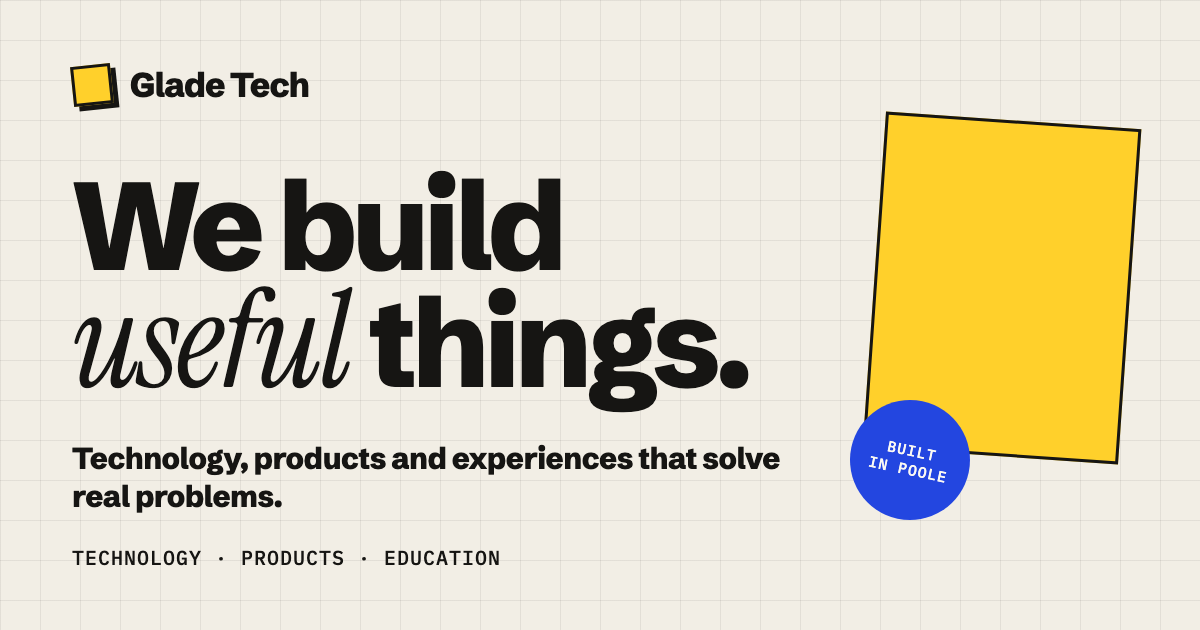
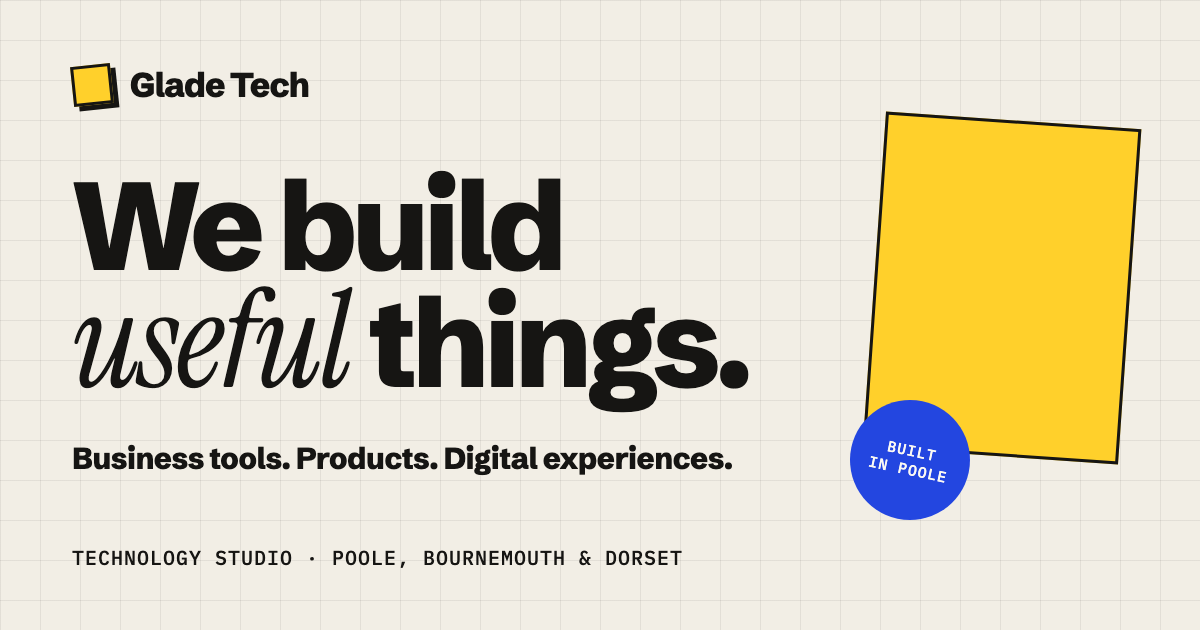
Local SEO metadata, structured data and Google Search Console verification file

Changed region(s): [[0.0617, 0.6937, 0.6475, 0.8143], [0.185, 0.8746, 0.5858, 0.9048]]

diff --git a/index.html b/index.html
@@ -3,24 +3,28 @@
 <head>
     <meta charset="UTF-8">
     <meta name="viewport" content="width=device-width, initial-scale=1.0">
-    <title>Glade Tech — We build useful things</title>
-    <meta name="description" content="Glade Tech is an independent technology studio in Poole, UK, building practical software, digital products and educational experiences — including Chatacus, Guru Simulator and Noob Games.">
+    <title>Glade Tech — Technology Studio in Poole, Bournemouth &amp; Dorset</title>
+    <meta name="description" content="Glade Tech is an independent technology studio in Poole, Dorset, building business tools, digital products and experiences for businesses and organisations across Bournemouth, Poole and Dorset.">
     <link rel="canonical" href="https://gladetech.uk/">
+    <meta name="robots" content="index, follow">
+    <meta name="author" content="Marc Richards">
     <meta name="theme-color" content="#f2eee5">
 
     <meta property="og:type" content="website">
     <meta property="og:site_name" content="Glade Tech">
-    <meta property="og:title" content="Glade Tech — We build useful things">
-    <meta property="og:description" content="An independent technology studio building practical software, digital products and educational experiences.">
+    <meta property="og:title" content="Glade Tech — Technology Studio in Poole, Bournemouth &amp; Dorset">
+    <meta property="og:description" content="Glade Tech is an independent technology studio in Poole, Dorset, building business tools, digital products and experiences for businesses and organisations across Bournemouth, Poole and Dorset.">
     <meta property="og:url" content="https://gladetech.uk/">
     <meta property="og:image" content="https://gladetech.uk/img/og.png">
     <meta property="og:image:width" content="1200">
     <meta property="og:image:height" content="630">
+    <meta property="og:image:alt" content="Glade Tech — We build useful things. Business tools, products and digital experiences.">
     <meta property="og:locale" content="en_GB">
     <meta name="twitter:card" content="summary_large_image">
-    <meta name="twitter:title" content="Glade Tech — We build useful things">
-    <meta name="twitter:description" content="An independent technology studio building practical software, digital products and educational experiences.">
+    <meta name="twitter:title" content="Glade Tech — Technology Studio in Poole, Bournemouth &amp; Dorset">
+    <meta name="twitter:description" content="Glade Tech is an independent technology studio in Poole, Dorset, building business tools, digital products and experiences for businesses and organisations across Bournemouth, Poole and Dorset.">
     <meta name="twitter:image" content="https://gladetech.uk/img/og.png">
+    <meta name="twitter:image:alt" content="Glade Tech — We build useful things. Business tools, products and digital experiences.">
 
     <link rel="icon" href="favicon.ico" sizes="any">
     <link rel="icon" type="image/svg+xml" href="favicon.svg?v=2">
@@ -33,26 +37,84 @@
     <link rel="stylesheet" href="styles.css">
 
     <script type="application/ld+json">
-    {
-        "@context": "https://schema.org",
-        "@type": "Organization",
-        "name": "Glade Tech",
-        "url": "https://gladetech.uk/",
-        "logo": "https://gladetech.uk/apple-touch-icon.png",
-        "slogan": "We build useful things.",
-        "description": "An independent technology studio building practical software, digital products and educational experiences.",
-        "email": "marc@gladetech.uk",
-        "address": { "@type": "PostalAddress", "addressLocality": "Poole", "addressCountry": "GB" },
-        "founder": {
+{
+    "@context": "https://schema.org",
+    "@graph": [
+        {
+            "@type": "ProfessionalService",
+            "@id": "https://gladetech.uk/#studio",
+            "name": "Glade Tech",
+            "description": "Glade Tech is an independent technology studio in Poole, Dorset, building business tools, digital products and experiences for businesses and organisations across Bournemouth, Poole and Dorset.",
+            "slogan": "We build useful things.",
+            "url": "https://gladetech.uk/",
+            "logo": "https://gladetech.uk/apple-touch-icon.png",
+            "image": "https://gladetech.uk/img/og.png",
+            "email": "marc@gladetech.uk",
+            "address": {
+                "@type": "PostalAddress",
+                "addressLocality": "Poole",
+                "addressRegion": "Dorset",
+                "addressCountry": "GB"
+            },
+            "areaServed": [
+                {
+                    "@type": "City",
+                    "name": "Poole"
+                },
+                {
+                    "@type": "City",
+                    "name": "Bournemouth"
+                },
+                {
+                    "@type": "AdministrativeArea",
+                    "name": "Dorset"
+                }
+            ],
+            "founder": {
+                "@id": "https://gladetech.uk/#marc"
+            },
+            "brand": [
+                {
+                    "@type": "Brand",
+                    "name": "Chatacus",
+                    "url": "https://chatacus.co/",
+                    "slogan": "Conversations that turn into customers."
+                },
+                {
+                    "@type": "Brand",
+                    "name": "Guru Simulator"
+                },
+                {
+                    "@type": "Brand",
+                    "name": "Noob Games"
+                }
+            ]
+        },
+        {
             "@type": "Person",
+            "@id": "https://gladetech.uk/#marc",
             "name": "Marc Richards",
             "url": "https://marc-richards.com/",
-            "sameAs": ["https://www.linkedin.com/in/marcwrichards"]
+            "jobTitle": "Founder",
+            "worksFor": {
+                "@id": "https://gladetech.uk/#studio"
+            },
+            "sameAs": [
+                "https://www.linkedin.com/in/marcwrichards"
+            ]
         },
-        "brand": [
-            { "@type": "Brand", "name": "Chatacus", "url": "https://chatacus.co/", "slogan": "Conversations that turn into customers." }
-        ]
-    }
+        {
+            "@type": "WebSite",
+            "@id": "https://gladetech.uk/#website",
+            "url": "https://gladetech.uk/",
+            "name": "Glade Tech",
+            "inLanguage": "en-GB",
+            "publisher": {
+                "@id": "https://gladetech.uk/#studio"
+            }
+        }
+    ]
+}
     </script>
     <script>document.documentElement.classList.add("js");</script>
 </head>

diff --git a/google388539447973d31a.html b/google388539447973d31a.html
@@ -1,0 +1,1 @@
+google-site-verification: google388539447973d31a.html
